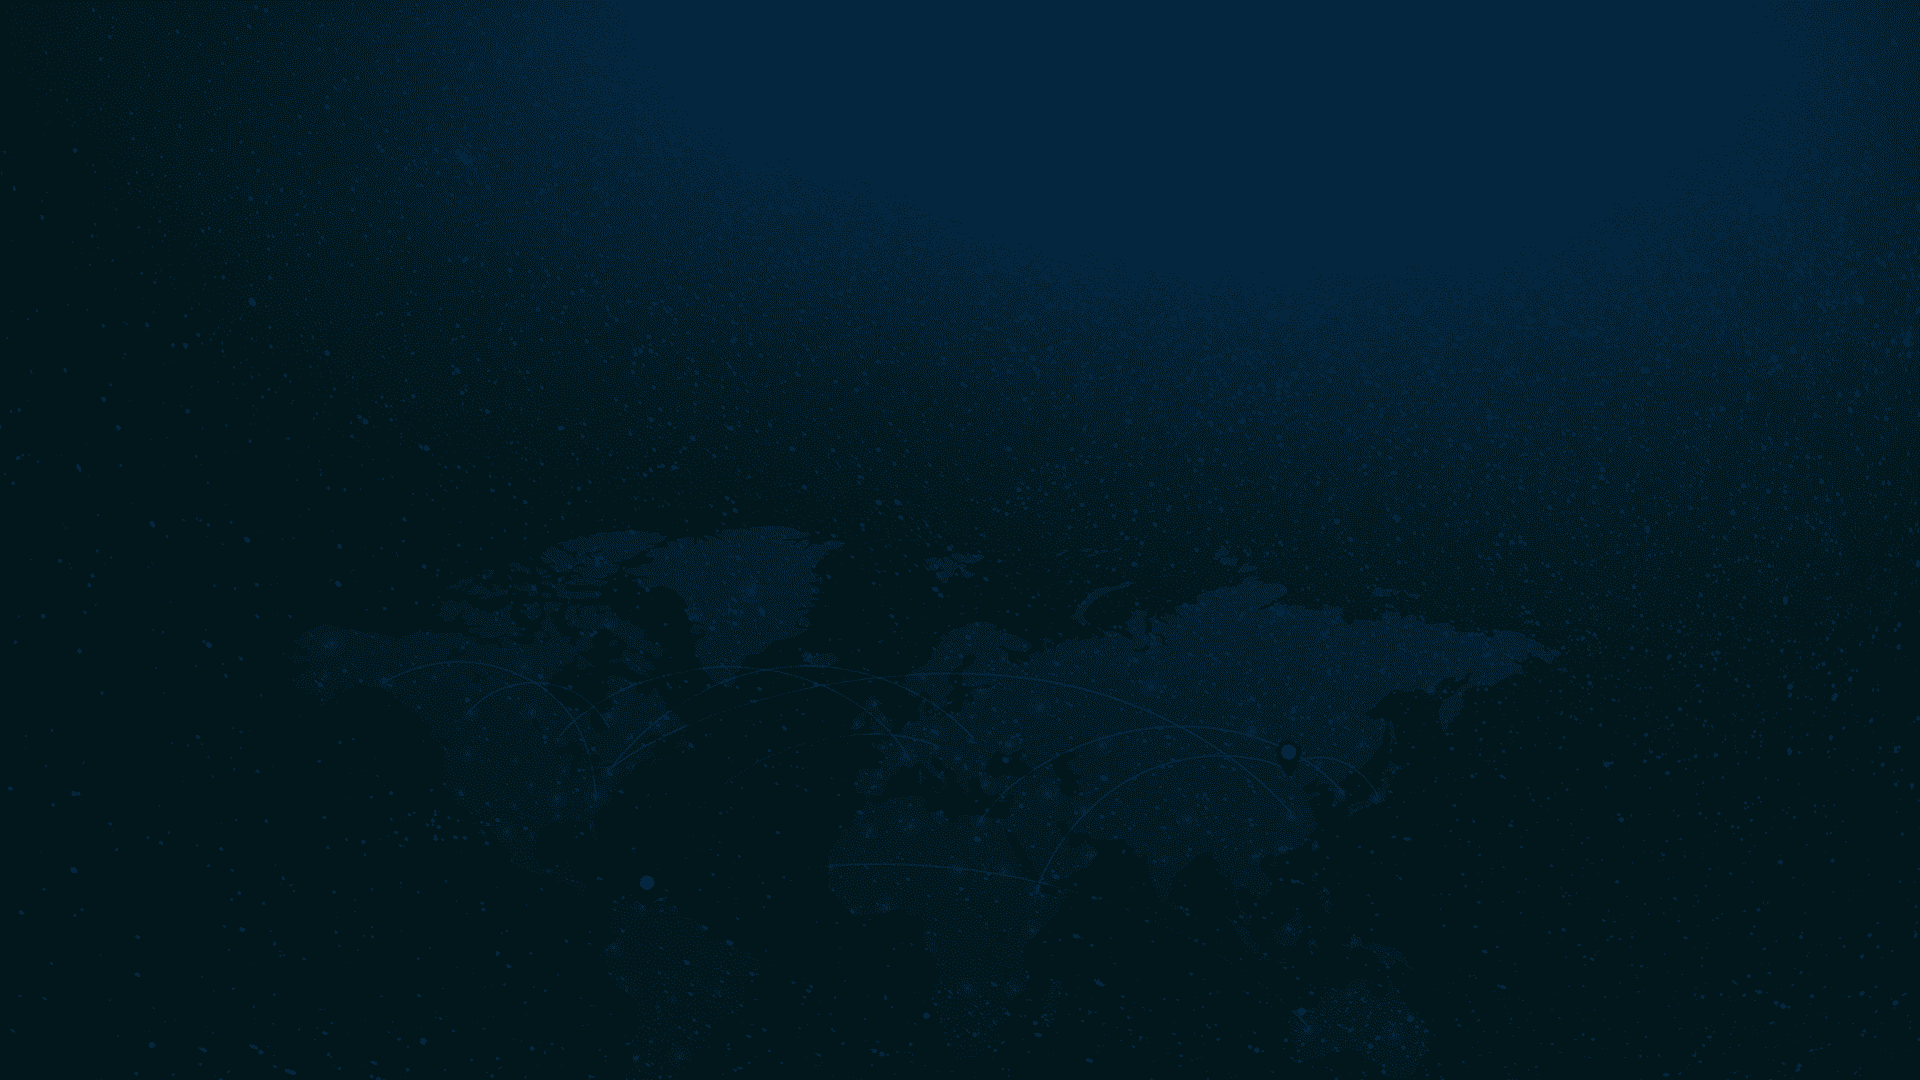
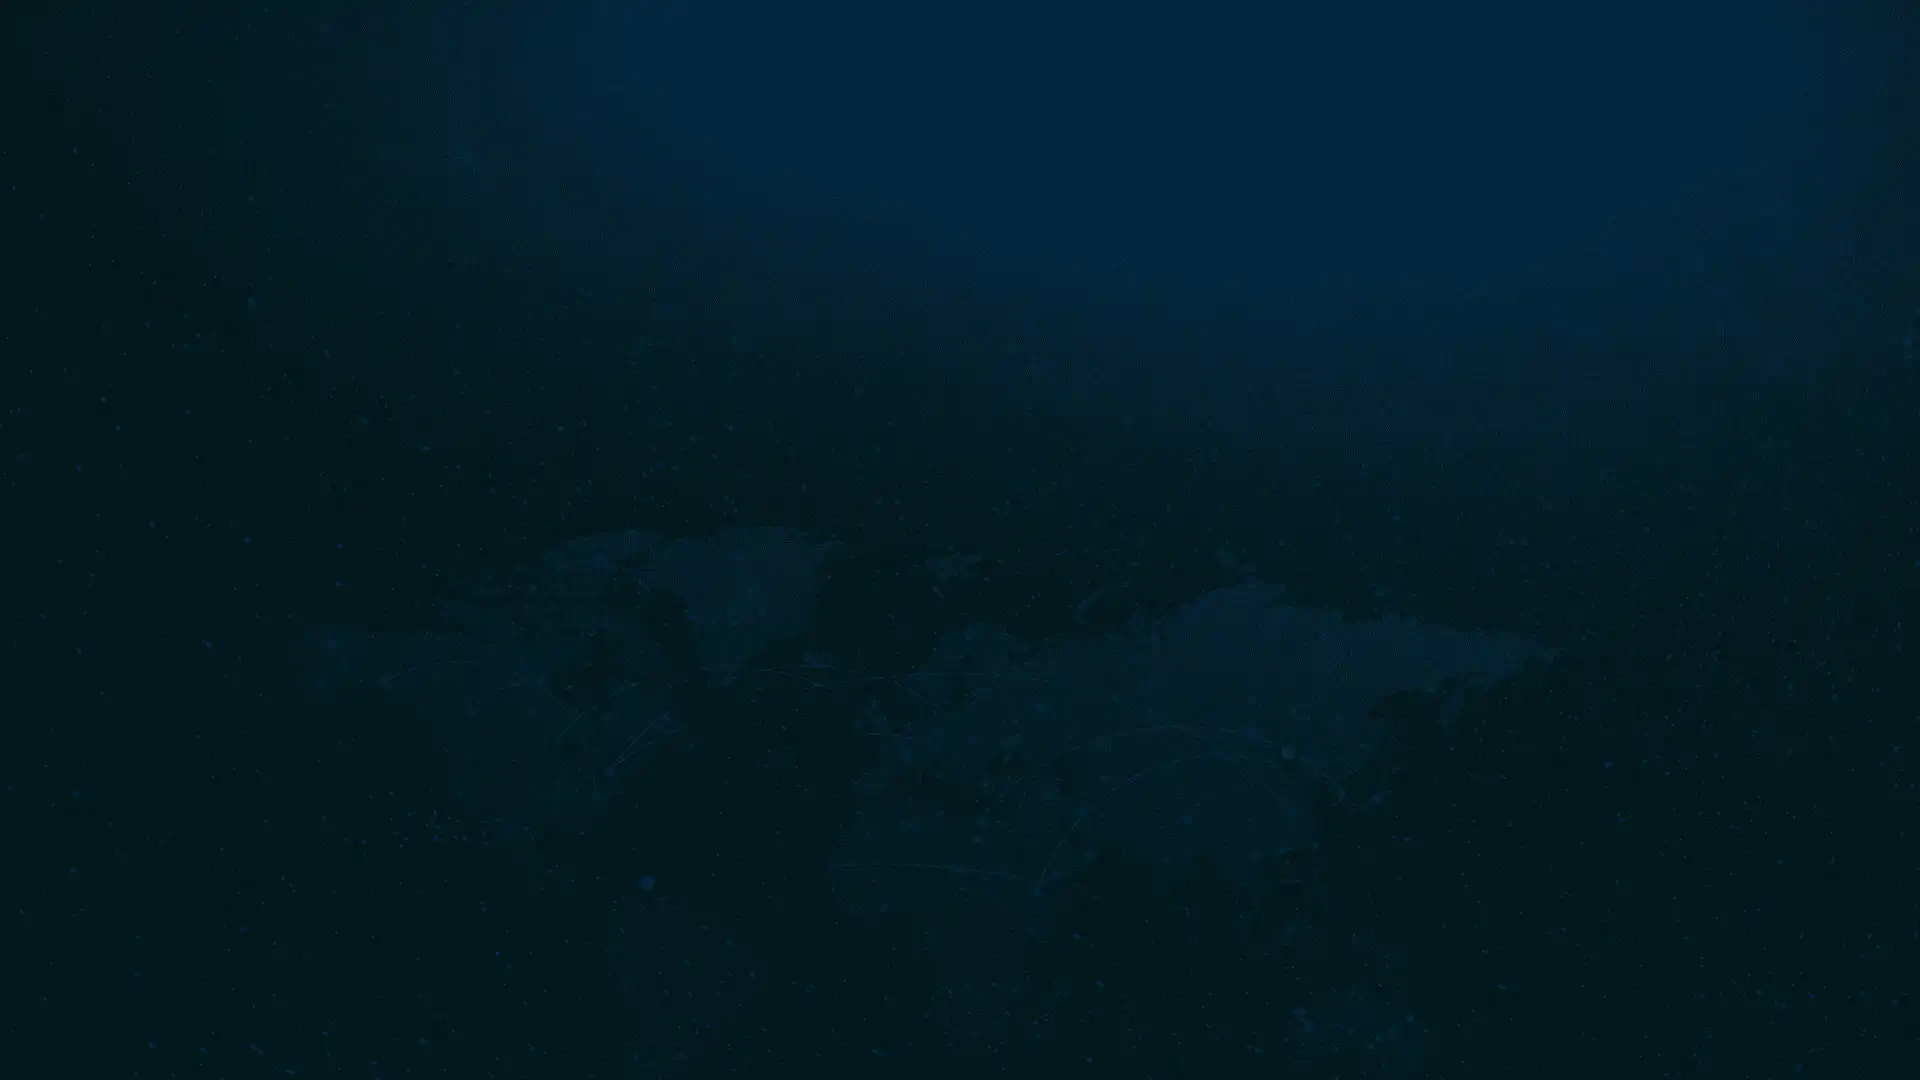
feat：调整table组件单元格高度、Tooltip自定义显示

diff --git a/src/components/base/base-table.vue b/src/components/base/base-table.vue
@@ -115,7 +115,7 @@ import {
   type VNode,
   type Slots,
 } from "vue";
-import { Setting, Refresh } from '@element-plus/icons-vue'
+import { Setting, Refresh } from "@element-plus/icons-vue";
 import type { TableInstance, Sort } from "element-plus";
 import { formatNumber, formatNumberDisplay } from "@/utils/common";
 
@@ -395,7 +395,8 @@ const TableColumn = {
         align: column.align || "center",
         sortable: column.sortable || false,
         fixed: column.fixed,
-        showOverflowTooltip: true, // 鼠标移入显示全部内容
+        // 空值合并运算符，value ?? defaultValue，当 value 为 null 或 undefined 时，返回 defaultValue，否则返回 value 本身
+        showOverflowTooltip: column.showOverflowTooltip ?? true, // 鼠标移入显示全部内容
       };
 
       // 如果有子列，递归渲染
@@ -920,6 +921,11 @@ defineExpose({
         background-color: #f8f8f9 !important;
         .el-table__cell {
           padding: 1px 0; // 调整内边距来控制高度
+          // 固定内容区高度，确保行高一致
+          .cell {
+            height: 26px;
+            line-height: 26px;
+          }
         }
         thead {
           background-color: #f8f8f9 !important;
@@ -939,7 +945,11 @@ defineExpose({
     .el-table__body {
       .el-table__cell {
         padding: 1px 0; // 调整内边距来控制高度
-
+        // 固定内容区高度，确保行高一致
+        .cell {
+          height: 26px;
+          line-height: 26px;
+        }
         // 可点击单元格样式
         .clickable-cell {
           cursor: pointer;

diff --git a/src/views/system/role/components/department-permissions.vue b/src/views/system/role/components/department-permissions.vue
@@ -97,11 +97,13 @@ const columns: TableColumnItem[] = [
     prop: "isPower",
     label: "授权",
     slot: "isPower",
+    showOverflowTooltip: false,
   },
   {
     prop: "isAutoRefresh",
     label: "自动权限扩张",
     slot: "isAutoRefresh",
+    showOverflowTooltip: false,
   },
 ];
 const tableData = ref<any[]>([]);

diff --git a/src/views/system/role/components/project-permissions.vue b/src/views/system/role/components/project-permissions.vue
@@ -98,11 +98,13 @@ const columns: TableColumnItem[] = [
     prop: "isPower",
     label: "授权",
     slot: "isPower",
+    showOverflowTooltip: false,
   },
   {
     prop: "isAutoRefresh",
     label: "自动权限扩张",
     slot: "isAutoRefresh",
+    showOverflowTooltip: false,
   },
 ];
 const tableData = ref<any[]>([]);

diff --git a/src/views/system/user/reset-pwd.vue b/src/views/system/user/reset-pwd.vue
@@ -34,7 +34,7 @@
       <el-button
         class="save-btn"
         type="primary"
-        size="small"
+        size="default"
         :loading="saveLoading"
         @click="handleSubmit"
       >

diff --git a/src/views/system/role/components/major-permissions.vue b/src/views/system/role/components/major-permissions.vue
@@ -79,6 +79,7 @@ const columns: TableColumnItem[] = [
     prop: "isPower",
     label: "授权",
     slot: "isPower",
+    showOverflowTooltip: false,
   },
 ];
 const tableData = ref<any[]>([]);

diff --git a/src/views/system/role/menu-permissions.vue b/src/views/system/role/menu-permissions.vue
@@ -99,6 +99,7 @@ const setTreeCheckedState = async () => {
 
 // 获取树形菜单数据
 const getTreeData = async () => {
+  if (dataLoading.value) return; // 防止重复请求
   dataLoading.value = true;
   try {
     const res = await roleApi.getRoleMenuPowerList({ roleId: props.roleId });